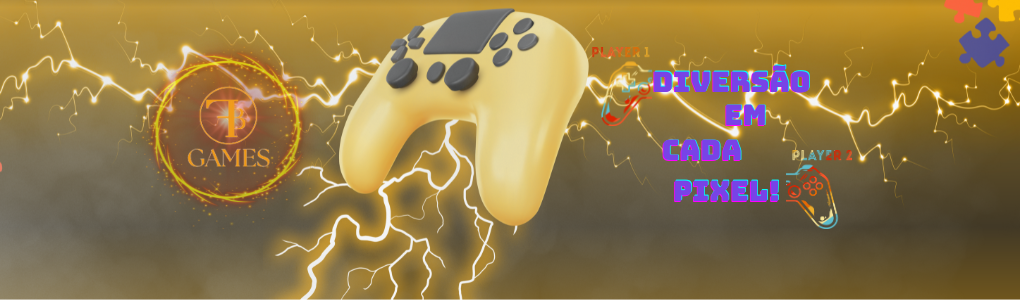
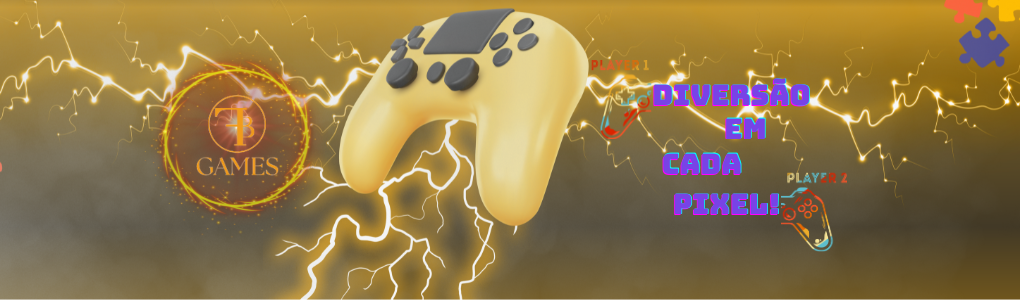
carrossel do site

Changed region(s): [[0.5775, 0.15, 0.851, 0.84], [0.1216, 0.18, 0.3039, 0.72]]

diff --git a/meu_projeto/site_django/templates/site_django/pagina_inicial.html b/meu_projeto/site_django/templates/site_django/pagina_inicial.html
@@ -68,9 +68,9 @@
         </div>
         <div class="carousel-container">
             <div class="carousel-slide">
-                <div class="carousel-item"><img src="{% static 'site_django/imagens/fundo_carrossel1.png' %}" alt="Imagem 1"></div>
-                <div class="carousel-item"><img src="{% static 'site_django/imagens/fundo_carrossel2.png' %}" alt="Imagem 2"></div>
-                <div class="carousel-item"><img src="{% static 'site_django/imagens/fundo_carrossel3.png' %}" alt="Imagem 3"></div>
+                <div class="carousel-item"><img src="{% static 'site_django/imagens/fundo_carrossel1.png' %}" alt="Imagem1"></div>
+                <div class="carousel-item"><img src="{% static 'site_django/imagens/fundo_carrossel2.png' %}" alt="Imagem2"></div>
+                <div class="carousel-item"><img src="{% static 'site_django/imagens/fundo_carrossel3.png' %}" alt="Imagem3"></div>
             </div>
         </div>
         <nav>

diff --git a/meu_projeto/site_django/static/site_django/css/style.css b/meu_projeto/site_django/static/site_django/css/style.css
@@ -38,7 +38,7 @@ header {
 
 .carousel-container {
     width: 100%;
-    max-height: 280px; /* Diminuindo um pouco a altura máxima */
+    height: 300px; /* Altura do carrossel igual à altura da imagem */
     overflow: hidden;
     position: relative;
     z-index: 10;
@@ -46,9 +46,9 @@ header {
 
 .carousel-item img {
     display: block;
-    width: 40%;
-    height: 60%;
-    object-fit: cover;
+    width: 40%; /* Ocupa toda a largura */
+    height: 200%; /* Ocupa toda a altura do contêiner */
+    object-fit: cover; /* Preenche o contêiner, pode cortar um pouco */
     margin: 0;
 }
 
